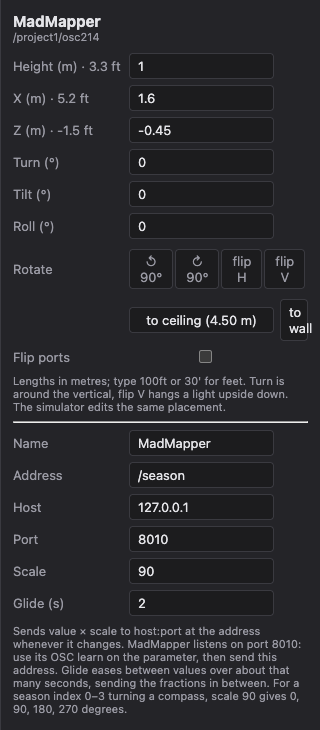
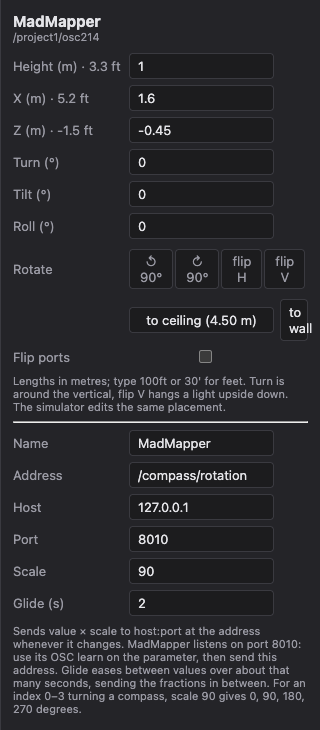
Docs and help text: generic framing, seasons only as the example show

Changed region(s): [[0.0312, 0.9342, 0.9688, 0.9945], [0.4375, 0.6329, 0.7812, 0.663]]

diff --git a/web/src/blocks/OscOutPanel.tsx b/web/src/blocks/OscOutPanel.tsx
@@ -10,7 +10,7 @@ export function OscOutPanel({ block, onPatch }: Props & { block: OscOutBlock }) 
       <NumField label="Port" value={block.port} onCommit={(port) => onPatch({ port: Math.round(port) })} step={1} />
       <NumField label="Scale" value={block.scale} onCommit={(scale) => onPatch({ scale })} />
       <NumField label="Glide (s)" value={block.glide ?? 0} onCommit={(glide) => onPatch({ glide: Math.max(0, glide) })} />
-      <div className="help">Sends value × scale to host:port at the address whenever it changes. MadMapper listens on port 8010: use its OSC learn on the parameter, then send this address. Glide eases between values over about that many seconds, sending the fractions in between. For a season index 0–3 turning a compass, scale 90 gives 0, 90, 180, 270 degrees.</div>
+      <div className="help">Sends value × scale to host:port at the address whenever it changes. MadMapper listens on port 8010: use its OSC learn on the parameter, then send this address. Glide eases between values over about that many seconds, sending the fractions in between. For an index 0–3 turning a compass, scale 90 gives 0, 90, 180, 270 degrees.</div>
     </>
   )
 }

diff --git a/web/src/blocks/FadePanel.tsx b/web/src/blocks/FadePanel.tsx
@@ -14,7 +14,7 @@ export function FadePanel({ block, onPatch }: Props & { block: FadeBlock }) {
           <option value="smooth">smooth (fast start, eases in)</option>
         </select>
       </div>
-      <div className="help">The output follows the signal in straight ramps: a full 0→1 change takes the rise time, 1→0 the fall time (0 = instant). E.g. drop → Fade (rise 0, fall 4) holds a drop and lets it fade out; its Not fades the season back in over the same 4 s. Needs TD's timeline playing.</div>
+      <div className="help">The output follows the signal in straight ramps: a full 0→1 change takes the rise time, 1→0 the fall time (0 = instant). E.g. drop → Fade (rise 0, fall 4) holds a drop and lets it fade out; its Not fades the base scene back in over the same 4 s. Needs TD's timeline playing.</div>
     </>
   )
 }

diff --git a/web/src/blocks/PriorityPanel.tsx b/web/src/blocks/PriorityPanel.tsx
@@ -6,7 +6,7 @@ export function PriorityPanel({ block, onPatch }: Props & { block: PriorityBlock
   return (
     <>
       <Field key={block.names.join()} label="Inputs" value={block.names.join(', ')} onCommit={(v) => { const names = v.split(',').map((s) => s.trim()).filter(Boolean); if (names.length) onPatch({ names }) }} />
-      <div className="help">Outputs the index of the highest input that is over half way up; later inputs win over earlier ones. Nothing up: 0. Comma-separated names, one input each (e.g. DMX faders 1–4 for fall, winter, spring, summer).</div>
+      <div className="help">Outputs the index of the highest input that is over half way up; later inputs win over earlier ones. Nothing up: 0. Comma-separated names, one input each (e.g. DMX faders 1–4, one per section of the show).</div>
     </>
   )
 }

diff --git a/web/src/blocks/HelpPanels.tsx b/web/src/blocks/HelpPanels.tsx
@@ -1,3 +1,3 @@
 export const LatchPanel = () => <div className="help">1 from a rising edge on set until reset goes high. Song match sets it, the drop resets it: that's "primed".</div>
-export const NotPanel = () => <div className="help">1 − the signal, clamped 0–1. For precedence: season `on` = Not(battle) × Not(drop) (two Nots into an And), drop `on` = drop × Not(battle), battle `on` = battle.</div>
+export const NotPanel = () => <div className="help">1 − the signal, clamped 0–1. For precedence: base `on` = Not(battle) × Not(drop) (two Nots into an And), drop `on` = drop × Not(battle), battle `on` = battle.</div>
 export const AndPanel = () => <div className="help">Multiplies the two signals, so it's 1 only while both are on. Drop × primed is "an accepted drop".</div>

diff --git a/web/src/blocks/ColorsPanel.tsx b/web/src/blocks/ColorsPanel.tsx
@@ -25,7 +25,7 @@ export function ColorsPanel({ block, onPatch, onOpenPalette }: Props & { block: 
           </div>
         </div>
       ))}
-      <div className="help">Each row is a colour output; the column follows the `index` input (wrapping), so wire the season count in and each row gives that season's colour. Feed them into scene Colour inputs, then into a fixture output's `color` or a Looks block's `color`.</div>
+      <div className="help">Each row is a colour output; the column follows the `index` input (wrapping), so wire a song or section index in and each row gives that step's colour. Feed them into scene Colour inputs, then into a fixture output's `color` or a Looks block's `color`.</div>
     </>
   )
 }

diff --git a/web/src/blocks/MixPanel.tsx b/web/src/blocks/MixPanel.tsx
@@ -11,7 +11,7 @@ export function MixPanel({ block, onPatch }: Props & { block: MixBlock }) {
           <option value="color">colour</option>
         </select>
       </div>
-      <div className="help">out = a × (1 − mix) + b × mix. Crossfade one value instead of a whole scene: a = the season value, b = the drop value, mix = a Fade of the drop (rise 0, fall 15) brought in as a scene input.</div>
+      <div className="help">out = a × (1 − mix) + b × mix. Crossfade one value instead of a whole scene: a = the base value, b = the drop value, mix = a Fade of the drop (rise 0, fall 15) brought in as a scene input.</div>
     </>
   )
 }

diff --git a/web/src/blocks/priority.ts b/web/src/blocks/priority.ts
@@ -10,7 +10,7 @@ export const priority: BlockDef<PriorityBlock> = {
   info: 'The index of the highest input that is up: later inputs win over earlier ones',
   tab: 'Logic',
   python,
-  create: (base, n) => ({ ...base, id: `prio${n}`, name: `prio${n}`, kind: 'priority', names: ['fall', 'winter', 'spring', 'summer'] }),
+  create: (base, n) => ({ ...base, id: `prio${n}`, name: `prio${n}`, kind: 'priority', names: ['a', 'b', 'c', 'd'] }),
   inputs: (b) => b.names.map((name, i) => typed(`in${i + 1}`, 'signal', `${i} ${name}`)),
   outputs: () => [typed('out', 'index', 'index')],
   subtitle: (b) => b.names.join(' < '),

diff --git a/web/src/blocks/values.ts b/web/src/blocks/values.ts
@@ -9,7 +9,7 @@ export const valueTable = (b: ValuesBlock): [string, number][][] => Array.from({
 export const values: BlockDef<ValuesBlock> = {
   kind: 'values',
   label: 'Values (index → named numbers)',
-  info: 'A table of named numbers, one column per index (e.g. per-season minimums)',
+  info: 'A table of named numbers, one column per index (e.g. per-section minimums)',
   tab: 'Math',
   python,
   create: (base, n) => ({ ...base, id: `val${n}`, name: `values${n}`, kind: 'values', steps: 4, rows: [{ name: 'min', values: [0.2, 0.15, 0.1, 0] }, { name: 'max', values: [0.6, 0.75, 0.9, 1] }] }),

diff --git a/web/src/blocks/ValuesPanel.tsx b/web/src/blocks/ValuesPanel.tsx
@@ -24,7 +24,7 @@ export function ValuesPanel({ block, onPatch }: Props & { block: ValuesBlock }) 
           </div>
         </div>
       ))}
-      <div className="help">Each row is a signal output; the column follows the `index` input (wrapping). Wire Season into index and feed rows like "min" and "max" into a Range's tame/wild min and max.</div>
+      <div className="help">Each row is a signal output; the column follows the `index` input (wrapping). Wire a song or section index in and feed rows like "min" and "max" into a Range's tame/wild min and max.</div>
     </>
   )
 }

diff --git a/web/src/blocks/colors.ts b/web/src/blocks/colors.ts
@@ -10,7 +10,7 @@ export const colorTable = (b: ColorsBlock): [string, number][][] => Array.from({
 export const colors: BlockDef<ColorsBlock> = {
   kind: 'colors',
   label: 'Colours (index → named colours)',
-  info: 'A table of named colours, one column per index (e.g. per season)',
+  info: 'A table of named colours, one column per index (e.g. per song or section)',
   tab: 'Math',
   python,
   create: (base, n) => ({ ...base, id: `col${n}`, name: `colours${n}`, kind: 'colors', steps: 4, rows: [{ name: 'main', colors: ['#ff4d00', '#2050ff', '#a040ff', '#ffd000'] }] }),

diff --git a/README.md b/README.md
@@ -82,7 +82,7 @@ Selecting several nodes shows every setting they share, greyed where values diff
   - In universes are input ports for DMX controllers.
   - Each port takes one cable, and loops are refused. The panel lists each out universe's chain with addresses.
   - In TD each node is one COMP. Per out universe it builds Constant `c[1-512]` → Replace `patch_u<n>` → DMX Out CHOP `dmxout_u<n>`, merging every fixture chained to that universe. Cable changes rebuild the nodes and controllers.
-- **DMX controller** (`dmxin<n>`): a lighting desk or fader box. Cable its DMX out into an Art-Net node's in universe. It shows N faders, one signal each, on the show tab's Inputs node, for optional overrides such as season, drop mode or blackout.
+- **DMX controller** (`dmxin<n>`): a lighting desk or fader box. Cable its DMX out into an Art-Net node's in universe. It shows N faders, one signal each, on the show tab's Inputs node, for optional overrides such as scene choice, drop mode or blackout.
   - In TD: DMX In CHOP (protocol and universe from the cable; inactive while uncabled) → Rename `ch[1-512]` → Select the first N → Math (0–255 → 0–1) → Out.
 - **LED tubes** (`tset<n>`): one or more LED tubes in a shape, placed on the layout as one node. There is no separate single-tube node: a single tube is a design with one tube.
   - Designs are templates. Each new LED tubes node gets its own design, and every design appears under Saved tube designs in the palette's Pixels tab to drop more copies. "Edit design" changes every copy.
@@ -107,7 +107,7 @@ The show tab has two fixed rails:
 Between the rails sit the scene nodes, Scene select and logic (Equals, Latch, And, Counter, and transformers such as Drop and Hold). Wires from the Inputs rail are ordinary wires from the source block, so a scene input, a Counter or a Level can all listen to the same signal.
 
 - **Scene** (`scene<n>`): a node on the show tab.
-  - Left side: `on` (its weight, 0–1, ramped linearly by the panel's fade in as it rises and fade out as it falls; e.g. drop 0 s in / 4 s out with season 4 s in / 0 s out snaps into a drop and crossfades back) and one port per Input block declared inside it.
+  - Left side: `on` (its weight, 0–1, ramped linearly by the panel's fade in as it rises and fade out as it falls; e.g. drop 0 s in / 4 s out with the base scene 4 s in / 0 s out snaps into a drop and crossfades back) and one port per Input block declared inside it.
   - Right side: one teal port per output declared inside it. Wire an output to any number of fixtures of the same type on the Outputs rail. A fixture takes one wire per scene, and several scenes blend.
   - Double-click it, or use its tab, to edit its graph: Input blocks → transformers and looks → outputs.
   - A scene with `on` unwired takes the weight the others leave, so it is the fallback. Reorder scenes with the arrows in the scene's panel; order only breaks exact ties.
@@ -135,16 +135,16 @@ Between the rails sit the scene nodes, Scene select and logic (Equals, Latch, An
 - **Input** (`in<n>`, scenes and composites): declares a value the scene or composite takes from outside, typed signal / index / audio / number / colour / multichannel (one palette entry per type). Its name is the port label on the scene node. Built as In CHOPs from the show-tab wires into that port (signals sum and clamp) → `out1`.
 - **Scene select** (`manual<n>`): one signal output per scene, 1 for the chosen one. Buttons in its panel set it live. Or wire an `index` in (Steps on a DMX fader, BLT `song`, a Counter) and scene N is chosen by the index (an Equals chain per scene). Wire each output into its scene's `on`.
 - **Constant** (`const<n>`): a test source, signal or index, with a value slider (live, no rebuild) and an optional pulse rate that turns it into a square wave (LFO CHOP) between 0 and the value.
-- **Values** (`val<n>`): the number version of Colours: named rows × N steps picked by a wrapping `index`, one signal output per row (e.g. per-season dimmer minimums and maximums into Range). Editing values updates TD live.
-- **Colours** (`col<n>`): a table of named colour rows × N steps, picked by an `index` input that wraps. Each row is a pink `color` output carrying Red, Green and Blue. Wire the season count in and feed the rows to scene Colour inputs, then into a fixture or group output's `color` (it replaces Red/Green/Blue and hides those ports) or a Looks block's `color` (which replaces the look's colour and keeps its dimmer window). In TD: one Constant per step → Switch on the wrapped index; consumers select their row's `c<i>_*` channels and strip the prefix.
+- **Values** (`val<n>`): the number version of Colours: named rows × N steps picked by a wrapping `index`, one signal output per row (e.g. per-section dimmer minimums and maximums into Range). Editing values updates TD live.
+- **Colours** (`col<n>`): a table of named colour rows × N steps, picked by an `index` input that wraps. Each row is a pink `color` output carrying Red, Green and Blue. Wire a song or section index in and feed the rows to scene Colour inputs, then into a fixture or group output's `color` (it replaces Red/Green/Blue and hides those ports) or a Looks block's `color` (which replaces the look's colour and keeps its dimmer window). In TD: one Constant per step → Switch on the wrapped index; consumers select their row's `c<i>_*` channels and strip the prefix.
   - **Palette view**: double-click a Colours node (or "palette view" in its panel) for a full-screen editor: big swatches for every row × step (rename, add or remove rows and steps; colour edits update TD live). Under each swatch is a preview of it as light on the fixture type picked in "Preview on" (RGB fixture types, the ones in the show first): red, green and blue discs on black overlapping additively, each lit `value^gamma × LED brightness` and all scaled together so none clips (an overpowering blue makes white look blue, not white), the mix in the centre; then the DMX red, green and blue TD sends and the overall light level. Click a swatch to calibrate with it: the side panel shows it large with the fixture's LED brightness (red, green, blue) and gamma; put the colour on the real fixture and adjust until the centre matches. Saved per fixture type, preview only: TD always sends the colours as authored.
   - **Fixture look** (per fixture type, saved as `responses` in the show, preview only): an R/G/B multiplier (0–4, default 1) and a gamma (0.5–3, default 1) describing how that fixture renders light. A channel value v previews as light min(multiplier × v^gamma, 1), shown on screen through the sRGB transfer function, so 255 / 255 / 64 on a default fixture previews as a pale warm white. It changes nothing in TD or the simulator. Older shows saved with strength / compensate load as multiplier min(strength) / strength when compensate was on, otherwise 1; a missing gamma loads as 1.
 - **Equals** (`eq<n>`): 1 while the index equals a value. Built as Math pre-add −value → Math square → Limit → invert; the two Math CHOPs are separate because TD applies a post-op before the pre-add. BLT `song` → Equals → scene `on` is "this scene for that song".
 - **Latch** (`latch<n>`): 1 from a `set` edge until `reset`. The output decays over 0.25 s (Lag) so an And sees it on the same frame the reset arrives.
 - **And** multiplies two signals.
-- **Fade** (`fade<n>`): ramps a signal linearly, a full 0→1 over `rise` seconds and 1→0 over `fall` (Lag CHOP with Clamp Slope). Curve `smooth` uses the Lag CHOP's exponential lag instead (time constant = time/3, ~95% there at the set time). Put timing on the signal rather than the scene when only some transitions should fade: drop → Hold → Fade (rise 0, fall 4) into drop's `on`, and Not of it into season's, crossfades back to the season while battle still cuts hard.
+- **Fade** (`fade<n>`): ramps a signal linearly, a full 0→1 over `rise` seconds and 1→0 over `fall` (Lag CHOP with Clamp Slope). Curve `smooth` uses the Lag CHOP's exponential lag instead (time constant = time/3, ~95% there at the set time). Put timing on the signal rather than the scene when only some transitions should fade: drop → Hold → Fade (rise 0, fall 4) into drop's `on`, and Not of it into the base scene's, crossfades back to the base scene while battle still cuts hard.
 - **Mix** (`mix<n>`): crossfades two signals or two colours (Type), `a × (1 − mix) + b × mix` (Math CHOPs). Slides one value with a Fade instead of switching scenes.
-- **Not** (`not<n>`): 1 − signal, clamped 0–1. Precedence (battle → drop → season): battle `on` = battle; drop `on` = drop × Not(battle); season `on` = Not(battle) × Not(drop).
+- **Not** (`not<n>`): 1 − signal, clamped 0–1. Precedence (battle → drop → base): battle `on` = battle; drop `on` = drop × Not(battle); base `on` = Not(battle) × Not(drop).
 - **Counter** counts edges into an index clamped at max.
 - **Combine** (`comb<n>`) and **Split** (`split<n>`): bundle values onto one light-blue `multi` wire and back. Neither has settings. Combine shows its filled slots plus one open `+` input (grey until the first wire): wiring the open slot fills it and a new one appears below, up to 32; removing a slot's wire removes the slot without touching the others (slot ids `s<n>` are never renumbered). The first wire sets the element type (signal, index, number, colour, look or audio) and every slot then takes only that type; with no wires left it resets. Slots are labelled with the source's name (its port label when the source has several outputs), overridable per slot in the panel (`names`, keyed by slot id). Split mirrors the upstream Combine exactly: one output per slot, same ids, labels and type, traced back through per-channel transforms and through scene / composite multichannel Inputs and Outputs; with no Combine upstream it has no outputs and says so. Gate, Not, Fade, Range, Mix (signal type) and And take a multichannel wire on their signal input (`a`/`b` for Mix and And) only when the element type is signal, output multichannel and run per channel; control inputs (Range `amount` and window edges, Mix `mix`, the other And input) stay single and apply to every channel. Other element types go only to Split or multichannel Inputs/Outputs. A multichannel port takes one wire; wires that stop matching (a transform no longer multichannel, a Split output whose slot went away) are dropped. In TD: Combine renames each slot to its slot id (`s3`, or `s3_Red s3_Green s3_Blue` and so on for colour, look and audio slots) and merges them; Split passes the wire through and each output selects its slot's channels (stripping the prefix for colours), so names survive the transforms in between. Older shows load with `channels` dropped and `names` keyed by slot; their wires keep their ports.
 
@@ -196,7 +196,7 @@ The palette is split into tabs per editor tab: layout **Hardware · Pixels · Fi
 - **Drop** (`drop<n>`): kick-dropout detector. Inputs `kick` (energy) and `beat` (a beat pulse). Math/Limit gate the kick to 0/1; a Count CHOP counts beat edges and is held at zero while the kick is on (reset input, "while on"), so it holds "beats since the last kick"; gating it at `beats − 0.5` gives `armed`. A short Lag holds `armed` for 0.25 s after the kick returns, and `kick × hold` is the `drop` pulse; `armed` is also an output, for build-up looks. A Count CHOP with a re-trigger delay of `cooldown` seconds counts them into `drops` (index).
 - **Timer** (`timer<n>`): counts from 0 to `count to` (default 4) over a duration entered as hours, minutes and seconds (default 4 h), so 4 h with count to 4 is 0 for the first hour, 1 for the second and 4 at the end. Outputs `count` (index: floor of progress × count to), `value` (number: the smooth 0…count to) and `progress` (signal 0–1). At the end it holds (count stays at count to) or loops back to 0. Inputs `reset` (a rising edge restarts from 0) and `run` (when wired it only counts while above 0.5; unwired it always runs). Timer CHOP (length in seconds, Cycle on for loop, Initialize + Start pulsed when built, `reset` wired into its start input, Play expression `run > 0.5`) → Select `timer_fraction` → Math × count to → Limit floor → Rename → Merge. The Timer CHOP counts real time, not frames. Rebuilding the Timer (changing its settings or what feeds it) restarts it.
 - **Hold** (`hold<n>`): inputs `trigger` and `beat`; `hold` is 1 from the trigger until N beats have passed (Count CHOP on beats, held at zero while the trigger is on, then `beats − count` gated above 0.5).""","""- **Hold** (`hold<n>`): inputs `trigger` and `beat`; `hold` is 1 from the trigger until N beats have passed (Count CHOP on beats, held at zero while the trigger is on, then `beats − count` gated above 0.5), and stays 0 until the first trigger.""")
-- **Range** (`rng<n>`): remaps `signal` into a brightness window: output = min + signal × (max − min), where min and max slide from the tame pair at `amount` 0 to the wild pair at `amount` 1. Sum a Scenes level, a Hold and a song highlight into `amount` for "tame early, wild late, extreme on drops". The four window edges can also be wired (`tame min`, `tame max`, `wild min`, `wild max`), which overrides the fields, so a Values table indexed by season can set them. In TD: two Math CHOPs (`tame`, `wild`) remap the signal from 0–1 to each window, and a Cross CHOP blends them by `amount` (clamped 0–1); wired edges and `amount` drive those pars by expression.
+- **Range** (`rng<n>`): remaps `signal` into a brightness window: output = min + signal × (max − min), where min and max slide from the tame pair at `amount` 0 to the wild pair at `amount` 1. Sum a Scenes level, a Hold and a song highlight into `amount` for "tame early, wild late, extreme on drops". The four window edges can also be wired (`tame min`, `tame max`, `wild min`, `wild max`), which overrides the fields, so a Values table indexed by song or section can set them. In TD: two Math CHOPs (`tame`, `wild`) remap the signal from 0–1 to each window, and a Cross CHOP blends them by `amount` (clamped 0–1); wired edges and `amount` drive those pars by expression.
 - **Sequence** (`seq<n>`): a list of values stepped through on `trigger`, wrapping; `reset` jumps back to the first (Count CHOP reset input). Output is center + value × unit, so "1 -1 2 -1" with unit 0.05 is right, left, right twice as far. Built as Constant per value → Switch on the wrapped count.
 - **Looks** (`look<n>`, formerly Scenes): a look is colour plus brightness. Inputs `scene`/`next`, `dimmer` (the brightness before the window; 1 if unwired) and `wild`; output `look` carries `Red Green Blue Dimmer`, with Dimmer = lo + dimmer × (hi − lo) after `wild` has widened the window. On a scene tab a light shows both `look` and the separate Red/Green/Blue/Dimmer (plus `pattern` on groups) until one side is wired, then the other side disappears for that scene; the same rule hides Pan/Tilt once `position` is wired and vice versa. A group runs a wired look's Dimmer through its pattern. Every block also has a **Ports** checklist to hide inputs you don't use; hiding a wired port drops its wires.
 - **Pattern** (`pat<n>`): fan-out transformer. Inputs `signal` plus either `step` (index) or `trigger` (signal), chosen by the Advance option; outputs `slot1..N`. The UI computes a mask table for the mode (all; alternate odd/even; chase one at a time; outsidein from the ends to the middle and back; alternate ×2 two on, two off; fill in lighting from the ends inward and staying lit until full; fill out the same from the middle) and builds one Constant CHOP per step feeding a Switch CHOP. The switch index comes from `step`, or from a Count CHOP on rising edges of `trigger` (divided by the "Every N triggers" field via a Math CHOP with floor, so a pattern can advance every 4 or 16 beats; Scenes, Sequence and Group have the same field), or 0 if unwired; a Limit CHOP loops it over the step count. If `signal` is wired, a Math CHOP multiplies the mask by it. Wire each slot to a fixture's Dimmer. "Reset pattern" in its panel jumps back to step 1, and **Minimum** (or the `floor` input) is a hard floor, applied with a Math CHOP max: no slot goes below it.
@@ -221,11 +221,11 @@ The "debug" checkbox in the header polls TD every 150 ms (one eval returning eve
 
 The "simulate" tab is a port of ArtNetPreview's Three.js scene (floor, grid, orbit camera, PAR with lens, beam cone and spotlight) that needs no fixture config and no Art-Net listener: every layout fixture becomes a 3D light using the lsgleam profile (PAR, or a moving head with pan/tilt yoke, colour wheel and a narrow beam). While the tab is open the UI polls TD every 33 ms (`readDmx`, one eval reading the 512 patched channels of every interface universe, keyed by universe) and drives each light from its universe and DMX address exactly as the real fixture would read them, so an unpatched fixture or an address clash shows up in the simulation. RGB fixtures are drawn with the DMX values as received (the palette view's fixture look is not applied). Every fixture draws its lens and beam cone, but only a fixed pool of 8 real spotlights lights the floor and walls, given each frame to the brightest fixtures, so the GPU cost and shaders stay the same however many fixtures the show has. The live HUD line shows fps, render time, shader programs, draw calls and triangles. Each 3D view releases its WebGL context when it closes, and if the GPU drops the context the view says so and recovers on its own. The HUD shows the selected light's universe and address. Layout devices (nodes, controllers, CDJs, audio inputs) render as small boxes and boxes as wireframe rooms. Left-drag looks around, WASD moves, Q/E go down and up, Shift is faster, the wheel moves forward and back, right-drag pans and Esc deselects. Click anything to select it and drag the gizmo (move / rotate); placements are shared with the layout tab and saved as `sim` on the block. STL environments are not ported yet. Without TD, or with the preview menu, the simulator shows a preview computed from the show (see design mode).
 
-The "schedule" tab is a read-only fixture schedule / patch sheet. A summary lists counts per fixture type, every universe with its used channels (`Art-Net U0: 263/512`), each pixel board with the outputs and LEDs in use, and warnings: overlapping addresses within a universe, fixtures running past channel 512, the same universe number sent by two devices, pixel outputs carrying more LEDs than they drive, and unpatched fixtures or tubes. The fixtures table has one row per fixture: name, type, channels, DMX node (name, IP, protocol), universe, address range (`0/12–18`), X / height / Z (height in m and ft), turn, tilt, the room box it stands in and the scene outputs driving it (`Season: Kick`, group members numbered). The LED tubes table has one row per tube: tube set and tube, protocol, LEDs, length, board (name, IP), output, LED range on that output and the universes and channels it lands on. Click a header to sort, type in the filter box to narrow both tables, group fixtures by universe or type, and click a row to jump to it on the layout. Each table downloads as CSV (sorted and filtered as shown) and "print" prints a clean light-background landscape sheet, or saves it as PDF.
+The "schedule" tab is a read-only fixture schedule / patch sheet. A summary lists counts per fixture type, every universe with its used channels (`Art-Net U0: 263/512`), each pixel board with the outputs and LEDs in use, and warnings: overlapping addresses within a universe, fixtures running past channel 512, the same universe number sent by two devices, pixel outputs carrying more LEDs than they drive, and unpatched fixtures or tubes. The fixtures table has one row per fixture: name, type, channels, DMX node (name, IP, protocol), universe, address range (`0/12–18`), X / height / Z (height in m and ft), turn, tilt, the room box it stands in and the scene outputs driving it (`Base: Kick`, group members numbered). The LED tubes table has one row per tube: tube set and tube, protocol, LEDs, length, board (name, IP), output, LED range on that output and the universes and channels it lands on. Click a header to sort, type in the filter box to narrow both tables, group fixtures by universe or type, and click a row to jump to it on the layout. Each table downloads as CSV (sorted and filtered as shown) and "print" prints a clean light-background landscape sheet, or saves it as PDF.
 
 ### Save file and open file
 
-`shows/seasons.json` is a full example: 25 PARs and 8 moving heads chained on universe 0 inside a 100 × 30 ft room, an 8-fader DMX controller on in universe 1 (unwired, ready for overrides), two CDJs into a Scarlett's first two stereo pairs, four season scenes (Fall → Winter → Spring → Summer, each wider in brightness window and busier in patterns), song-primed battles and drop-triggered season changes. A listed BLT song primes a Latch; the next drop (Drop × Latch) advances a Counter into Scene select. While primed, two sides of the show tab flip between this season's and the next season's look on every beat (Looks `offset`), and a Hold gives 16 beats of drop mode after the change (wide windows, centre lights in their drop shade).
+`shows/seasons.json` is a full example show built around four seasons: 25 PARs and 8 moving heads chained on universe 0 inside a 100 × 30 ft room, an 8-fader DMX controller on in universe 1 (unwired, ready for overrides), two CDJs into a Scarlett's first two stereo pairs, four season scenes (Fall → Winter → Spring → Summer, each wider in brightness window and busier in patterns), song-primed battles and drop-triggered season changes. A listed BLT song primes a Latch; the next drop (Drop × Latch) advances a Counter into Scene select. While primed, two sides of the show tab flip between this season's and the next season's look on every beat (Looks `offset`), and a Hold gives 16 beats of drop mode after the change (wide windows, centre lights in their drop shade).
 
 "save file" downloads the show as JSON (the same document stored in `/project1/lsgleam_show`). "open file" loads one, runs it through the same migrations as a reload, replaces the current show, destroys every lsgleam COMP in TD and rebuilds everything from the file in dependency order ("rebuild all" uses the same order). The .toe still carries the show, so save file is for backups, sharing a rig, and moving between machines.
 

diff --git a/docs/recipes.md b/docs/recipes.md
@@ -2,28 +2,28 @@
 
 Worked examples. Each assumes the hardware is already on the [layout](layout.md).
 
-## DMX faders pick the season and turn MadMapper
+## DMX faders pick a section and turn MadMapper
 
-Four faders on a desk choose fall, winter, spring or summer. The highest fader that's up wins, the lights follow, and a MadMapper parameter (say a compass) turns 90° per season.
+Four faders on a desk choose one of four sections of the show (in the example show, the four seasons). The highest fader that's up wins, the lights follow, and a MadMapper parameter (say a compass) turns 90° per section.
 
 1. **Layout**: add a **DMX controller**, set Faders to 4 or more, and cable its DMX out into an **in** universe on your Art-Net node.
 2. **Layout**: add an **OSC out** and name it (e.g. MadMapper). Set:
-   - Address: what MadMapper should listen to, e.g. `/season`. In MadMapper, use OSC learn on the parameter.
+   - Address: what MadMapper should listen to, e.g. `/compass/rotation`. In MadMapper, use OSC learn on the parameter.
    - Host: the MadMapper machine's IP (`127.0.0.1` if it's the same computer). Port: 8010.
-   - Scale: 90, so seasons 0–3 send 0, 90, 180, 270.
+   - Scale: 90, so sections 0–3 send 0, 90, 180, 270.
    - Glide: 2 s, so the compass eases round instead of jumping.
 
    ![OSC out panel](images/oscout-panel.png)
 
-3. **Show tab**: add **Priority** (Logic). Its inputs default to `fall, winter, spring, summer`. Wire faders `ch1`–`ch4` from the Inputs rail into them.
+3. **Show tab**: add **Priority** (Logic). Name its four inputs after your sections (they default to `a, b, c, d`). Wire faders `ch1`–`ch4` from the Inputs rail into them.
 
    ![Priority panel](images/priority-panel.png)
 
-4. Wire Priority's `index` into **Scene select**'s `index` (scene 0 is the first scene, so keep the seasons in that order), and into the OSC out port on the Outputs rail.
+4. Wire Priority's `index` into **Scene select**'s `index` (scene 0 is the first scene, so keep the sections in that order), and into the OSC out port on the Outputs rail.
 
 ![Faders into Priority, out to OSC](images/recipe-priority-osc.png)
 
-Push fader 3: the index is 2, spring fades in, and MadMapper glides to 180. With fall and spring both up, spring wins. With nothing up the index is 0.
+Push fader 3: the index is 2, the third section fades in, and MadMapper glides to 180. With faders 1 and 3 both up, 3 wins. With nothing up the index is 0.
 
 ## Step forward and back every bar
 
